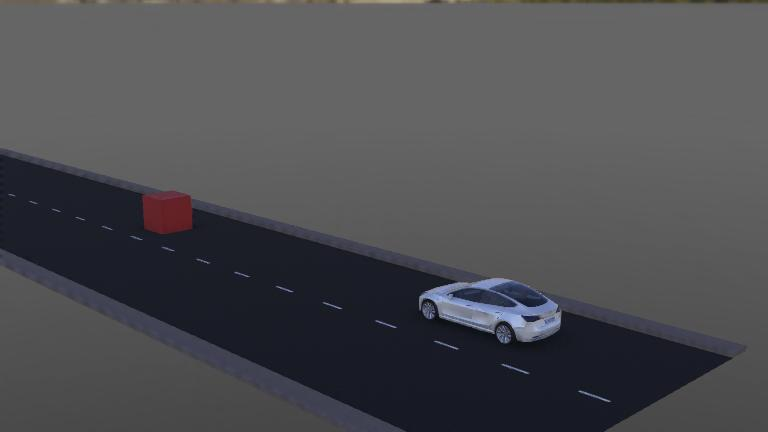
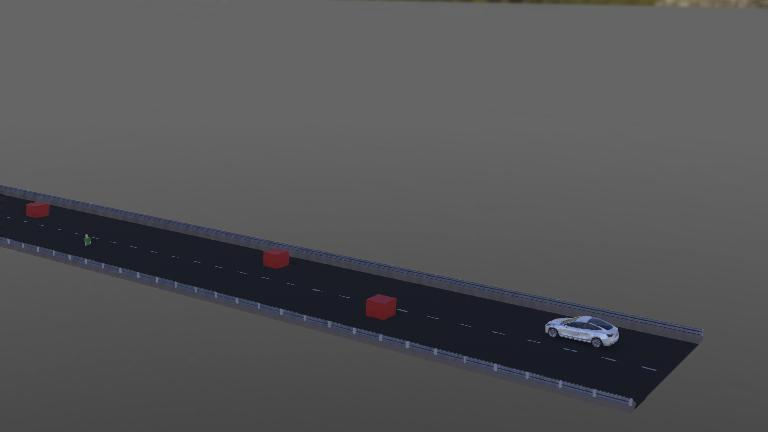
enhanced reward + udr

diff --git a/controllers/tesla_controller/tesla_controller.py b/controllers/tesla_controller/tesla_controller.py
@@ -7,25 +7,25 @@ import time
 
 class CustomCarEnv(DeepbotsSupervisorEnv):
 
-    # --- 1. Costanti di configurazione per un tuning più semplice ---
+     # --- 1. Costanti di configurazione per un tuning più semplice ---
     MAX_TIMESTEPS = 1000
-    TARGET_THRESHOLD = 2 # Aumentato leggermente per facilitare il raggiungimento
-    COLLISION_THRESHOLD = 0.4 # Distanza minima prima di considerare una collisione
-    STALL_LIMIT = 200 # Numero di step a velocità quasi nulla prima di terminare    
-    MAX_SPEED = 80 #rad/s
-    MAX_STEER_ANGLE = 0.7 # radianti (circa 34 gradi)
-    ROAD_WIDTH = 10
+    TARGET_THRESHOLD = 3 # Aumentato leggermente per facilitare il raggiungimento
+    COLLISION_THRESHOLD = 0.6 # Distanza minima prima di considerare una collisione
+    STALL_LIMIT = 150 # Numero di step a velocità quasi nulla prima di terminare    
+    MAX_SPEED = 30 #rad/s
+    MAX_STEER_ANGLE = 0.55 # radianti (circa 34 gradi)
+    ROAD_WIDTH = 12
     ROAD_LENGTH = 120
 
     robot = Supervisor()
 
     def __init__(self):
-        
+        self.total_timesteps = 0
         self.episode = 0
         #initializing obstacles
         self.num_obstacles = 4
         self.obstacles = []
-
+        self.cumulative_reward = 0.0
         for i in range(self.num_obstacles):
             self.obstacles.append(self.robot.getFromDef(f"obstacle_{i+1}"))
         
@@ -93,7 +93,7 @@ class CustomCarEnv(DeepbotsSupervisorEnv):
             return None, 0.0, True, True, {} # obs, reward, terminated, truncated, info
 
         self.current_timestep += 1
-        
+        self.total_timesteps += 1
         # Ottieni nuove osservazioni
         obs = self.get_obs()
         
@@ -106,7 +106,7 @@ class CustomCarEnv(DeepbotsSupervisorEnv):
             print("--- Episodio troncato per limite di tempo ---")
         
         done = terminated or truncated
-        
+        '''
         print_every = 50
         if((self.current_timestep % print_every) == 0):
             print("=====================================")
@@ -116,7 +116,12 @@ class CustomCarEnv(DeepbotsSupervisorEnv):
             print(f"REWARD: {reward}")
             print(f"ACTION: {action}")
             print("=====================================")
-
+        '''
+        print("=====================================")
+        print(f"EPISODE: {self.episode}")
+        print(f"CUMULATIVE REWARD: {self.cumulative_reward}")
+        print(f"TOT TIMESTEPS: {self.total_timesteps}")
+        print("=====================================")
         return obs, reward, done, {} # Manteniamo l'output standard di `step` (obs, reward, done, info)
         
 
@@ -216,22 +221,21 @@ class CustomCarEnv(DeepbotsSupervisorEnv):
 
         # --- 1. Progresso verso il target ---
         progress = self.previous_distance_to_target - target_distance
-        reward += progress * 60
+        reward += progress * 55
         self.previous_distance_to_target = target_distance
 
-        # --- 2. Velocità ---
-        reward += mean_v * 0.5
-
         # --- 3. Penalità sterzate forti ---
-        reward -= abs(tesla_yaw) * 1.0  # oppure un valore più basso tipo 0.5
+        reward -= abs(steer) * 1.0  # oppure un valore più basso tipo 0.5
+
+        reward -= abs(tesla_yaw) * 2
 
         # --- 4. Penalità prossimità ostacoli ---
         risk_score = np.sum(np.array(lidar) ** 2)
-        reward -= risk_score * 10.0
+        reward -= risk_score * 15.0
 
-        weights = np.array([1, 1.5, 2, 3, 4, 4, 3, 2, 1.5, 1])
+        weights = np.array([1.25, 1.75, 2, 3, 4, 4, 3, 2, 1.75, 1.25])
         directional_penalty = np.sum(weights * (np.array(lidar) ** 2))
-        reward -= directional_penalty * 2.5
+        reward -= directional_penalty * 3.5
 
         if np.max(lidar) > 0.95:
             reward -= 50.0
@@ -244,32 +248,34 @@ class CustomCarEnv(DeepbotsSupervisorEnv):
 
         if abs(gps_y) > (self.ROAD_WIDTH/2) or gps_z < 0 or gps_z > 1.0:
             print("--- Fuori strada ---")
-            reward -= 30.0
+            reward -= 50.0
             terminated = True
 
-        if mean_v < 0.1:
+
+        if mean_v < 1:
             self.stall_counter += 1
         else:
             self.stall_counter = 0
 
         if self.stall_counter >= self.STALL_LIMIT:
             print("--- Stallo ---")
-            reward -= 20.0
+            reward -= 50.0
             terminated = True
 
-        if target_distance < self.TARGET_THRESHOLD:
+        if target_distance < self.TARGET_THRESHOLD or abs(self.TARGET_X - gps_x) < 2:
             print("--- Obiettivo raggiunto ---")
-            reward += 100.0
+            reward += 300.0
             terminated = True
 
         reward = reward * 0.1
+        self.cumulative_reward += reward
 
         return reward, terminated
 
     def apply_UDR_to_obstacles(self): #to apply uniform domain randomization
         
-        range_x = [10,80]
-        range_y = [-3.5,3.5]
+        range_x = [10,90]
+        range_y = [-self.ROAD_WIDTH/2 + 1 ,self.ROAD_WIDTH/2 -1]
         z = 0.4
 
         placed_positions = []
@@ -284,7 +290,7 @@ class CustomCarEnv(DeepbotsSupervisorEnv):
 
                 # Controlla che non sia troppo vicino a un altro ostacolo
                 is_overlapping = any(
-                    np.linalg.norm(np.array(new_position[:2]) - np.array(pos[:2])) < 3
+                    np.linalg.norm(np.array(new_position[:2]) - np.array(pos[:2])) < 5
                     for pos in placed_positions
                 )
 
@@ -323,12 +329,13 @@ class CustomCarEnv(DeepbotsSupervisorEnv):
         self.car_node.setVelocity([0, 0, 0, 0, 0, 0])
         self.left_motor.setVelocity(0.0)
         self.right_motor.setVelocity(0.0)
-        #self.apply_UDR_to_obstacles()
+        #if(self.total_timesteps >= 10000):
+        self.apply_UDR_to_obstacles()
         #self.apply_UDR_to_tesla()
 
         # Resetta la simulazione
         self.robot.simulationResetPhysics()
-
+        self.cumulative_reward = 0.0
         self.robot.step(self.timestep * 5) # Lascia stabilizzare la simulazione
         
         # Resetta le variabili di stato dell'episodio
@@ -415,7 +422,7 @@ if __name__=='__main__':
                         print("Comando 'exit' ricevuto.")
                         env.robot.simulationSetMode(0)
                         env.robot.simulationReset()
-        
+                        
                         break
 
     except Exception as e:

diff --git a/test.py b/test.py
@@ -1,23 +1,37 @@
-import gymnasium as gym
-from webots_remote_env import WebotsRemoteEnv
 from stable_baselines3 import SAC
-from stable_baselines3 import PPO
-env = WebotsRemoteEnv()
-model = SAC.load("models/SAC_parallel_1M.mdl")
-test_episodes = 1000
+from webots_remote_env import WebotsRemoteEnv
+from stable_baselines3.common.vec_env import DummyVecEnv
+import numpy as np
+import time
 
-for i in range(test_episodes):
-    
-    # env.reset() ora restituisce (observation, info)
-    observation, _ = env.reset() # Il underscore `_` è una convenzione per ignorare il valore `info`
-    
+
+# Inizializza ambiente visualizzabile
+env = DummyVecEnv([lambda: WebotsRemoteEnv()])
+
+# Carica il modello
+model = SAC.load("models/SAC_1M_UDR.mdl", env=env)
+
+# Parametri test
+test_episodes = 200
+all_rewards = []
+
+for ep in range(test_episodes):
+    obs = env.reset()
     done = False
     total_reward = 0.0
+    steps = 0
+
     while not done:
-        action, _states = model.predict(observation=observation, deterministic=True) 
-        observation, reward, terminated, truncated, info = env.step(action)
-        done = terminated or truncated # 'done' per Stable-Baselines3 è true se terminated OR truncated
-        
-        total_reward += reward
-        
-    print(f"Episode: {i+1} -- Total Reward: {total_reward}")
+        action, _ = model.predict(obs, deterministic=True)
+        print(f"ACTION: {action}")
+        obs, reward, terminated, _ = env.step(action)
+        done = terminated
+        total_reward += float(reward)
+        steps += 1
+    
+
+    all_rewards.append(total_reward)
+    print(f"Episode {ep+1} | Reward: {total_reward:.2f} | Steps: {steps}")
+
+print("\nRISULTATI TEST")
+print(f"Avg Reward: {np.mean(all_rewards):.2f}")
